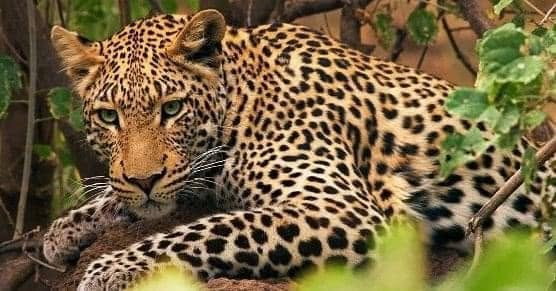
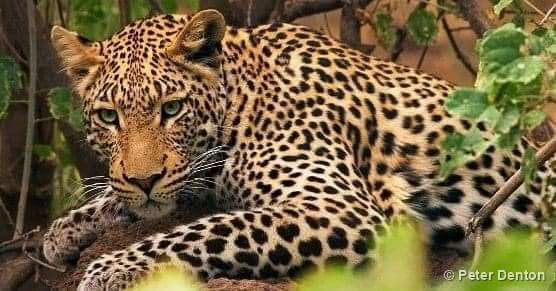
800px watermarked images, image save protection

Changed region(s): [[0.795, 0.9278, 0.9784, 0.9897]]

diff --git a/index.html b/index.html
@@ -526,7 +526,7 @@ section { scroll-margin-top: 108px; }
 
 <section id="featured">
   <div class="feat-grid">
-    <figure class="feat-img reveal"><img src="images/gallery/project-5.jpg" alt="Giza Mrembo, a black leopard seated on a granite rock in Kenya, limited edition print by Peter Denton" loading="lazy" width="1200" height="1200" /></figure>
+    <figure class="feat-img reveal"><img src="images/gallery/project-5.jpg" alt="Giza Mrembo, a black leopard seated on a granite rock in Kenya, limited edition print by Peter Denton" loading="lazy" width="800" height="800" /></figure>
     <div class="feat-body">
       <p class="section-label reveal">Featured Print</p>
       <h2 class="feat-title reveal">Giza Mrembo</h2>
@@ -544,7 +544,7 @@ section { scroll-margin-top: 108px; }
     </div>
   </div>
   <div class="feat-grid flip">
-    <figure class="feat-img wide reveal"><span class="feat-tag">Selling fast</span><img src="images/gallery/project-11.jpg" alt="Brumbies galloping downhill to the yards with stockman Craig Orchard riding behind, rehearsal of the 2025 Man From Snowy River Festival, Corryong, limited edition print by Peter Denton" loading="lazy" width="1292" height="720" /></figure>
+    <figure class="feat-img wide reveal"><span class="feat-tag">Selling fast</span><img src="images/gallery/project-11.jpg" alt="Brumbies galloping downhill to the yards with stockman Craig Orchard riding behind, rehearsal of the 2025 Man From Snowy River Festival, Corryong, limited edition print by Peter Denton" loading="lazy" width="800" height="446" /></figure>
     <div class="feat-body">
       <p class="section-label reveal">Featured Print</p>
       <h2 class="feat-title reveal">The Muster</h2>
@@ -893,6 +893,11 @@ section { scroll-margin-top: 108px; }
   buildDots();
   goTo(0);
 })();
+</script>
+<style>img{-webkit-user-drag:none;user-select:none;-webkit-touch-callout:none;}</style>
+<script>
+document.addEventListener('contextmenu',function(e){if(e.target.closest('img,figure,#hero,.hero')){e.preventDefault();}});
+document.addEventListener('dragstart',function(e){if(e.target.tagName==='IMG'){e.preventDefault();}});
 </script>
 </body>
 </html>
